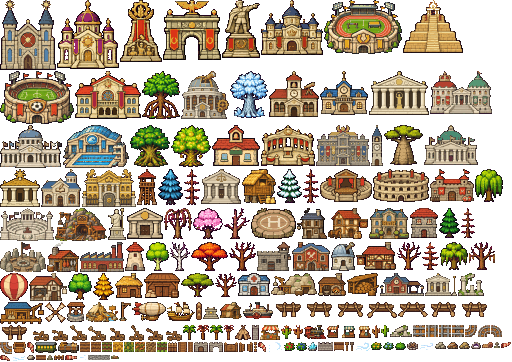
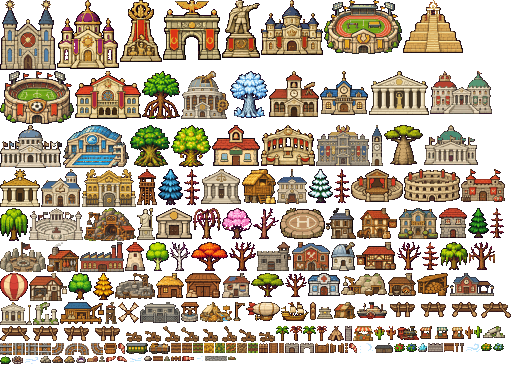
Hojas 14A y 14B: oficina del registro civil junto al ayuntamiento, centro de internamiento, cantera del campo de trabajo, barracones y torre de vigilancia, casa okupada, e iconos de DNI, pasaporte, permiso y grilletes en la ficha

diff --git a/js/arte_mapa.js b/js/arte_mapa.js
@@ -1,2 +1,2 @@
 // Forja de Mundos · Mapa del atlas de arte (generado: no editar a mano). clave: [x, y, ancho, alto, ancla x, llamas?]
-const ART_MAP = {"house:hut":[115,273,28,25,14],"house:piedra":[410,208,28,30,14],"well:pozo":[67,302,18,20,9],"store:almacen":[144,273,36,25,18],"tower:torre":[137,169,20,36,10],"hall:ayuntamiento":[320,71,48,44,24],"market:mercado":[327,325,44,13,22],"bank:banco":[127,208,36,31,18],"hospital:hospital":[238,273,32,23,16],"school:escuela":[212,125,48,41,24],"tavern:taberna":[356,242,40,28,20],"theater:teatro":[320,169,52,33,26],"coliseum:coliseo":[373,169,56,33,28],"barracks:cuartel":[430,169,44,33,22],"tradehall:lonja":[0,302,44,22,22],"quarry:cantera":[271,273,46,23,23],"temple:templo":[0,169,40,38,20],"obelisk:monumento":[108,208,18,32,9],"cathedral:catedral":[0,0,56,70,28],"cathedral:panteon":[369,71,60,44,30],"wonder:republica":[261,125,54,41,27],"wonder:monarquia":[261,0,62,55,31],"wonder:dictadura":[222,0,38,58,19],"wonder:comunismo":[120,0,42,62,21],"wonder:fascismo":[163,0,58,60,29],"wonder:socialismo":[75,71,66,48,33],"wonder:teocracia":[57,0,62,69,31],"altar:altar":[203,302,16,17,8,[5,0,6,6]],"cathedral:zigurat":[403,0,60,53,30,[24,1,12,13]],"forge:herreria":[318,273,28,23,14,[14,17,9,3]],"mill:molino":[125,242,20,29,10],"mill:aspas":[45,302,21,21,10],"oak:forest":[68,273,24,27,12],"oak:forest:bare":[397,242,24,28,12],"pine:pine":[439,208,21,30,10],"pine:pine:bare":[461,208,14,30,7],"pine:snow":[277,169,25,34,12],"pine:snow:bare":[303,169,16,34,8],"acacia:dry":[181,273,33,24,16],"acacia:dry:bare":[215,273,22,24,11],"birch:birch":[146,242,23,29,11],"birch:birch:bare":[170,242,20,29,10],"pine:blue":[158,169,25,36,12],"pine:blue:bare":[184,169,16,36,8],"willow:swamp":[475,169,28,33,14],"willow:swamp:bare":[164,208,28,31,14],"palm:palm":[183,325,13,15,6],"palm:palm:bare":[197,325,12,15,6],"palm:coco":[210,325,13,15,6],"palm:coco:bare":[224,325,10,15,5],"oak:cherry":[193,208,30,31,15],"oak:cherry:bare":[224,208,26,31,13],"pine:autumn":[93,273,21,27,10],"pine:autumn:bare":[422,242,17,28,8],"acacia:sunset":[191,242,37,29,18],"acacia:sunset:bare":[229,242,27,29,13],"willow:moss":[440,242,28,28,14],"willow:moss:bare":[469,242,26,28,13],"cactus:cactus":[381,325,8,12,4],"cactus:cactus:bare":[372,325,8,13,4],"cactus:bloom":[281,325,11,14,5],"cactus:bloom:bare":[293,325,10,14,5],"ancient:elder":[130,125,40,42,20],"ancient:frost":[230,71,38,47,19],"ancient:baobab":[384,125,39,40,19],"ancient:mangrove":[142,71,38,48,19],"ancient:life":[171,125,40,42,20],"bush:red":[284,342,11,9,5],"bush:blueb":[296,342,11,9,5],"bush:goldb":[371,342,11,8,5],"bush:moon":[383,342,11,8,5],"bush:empty":[395,342,11,8,5],"rock:stone":[27,355,8,5,4],"big:stone":[435,342,11,7,5],"ore:iron":[447,342,11,7,5],"ore:gold":[459,342,11,7,5],"gem:amethyst":[471,342,10,7,5],"gem:mana":[308,342,9,9,4],"fire:camp":[407,342,11,8,5],"camp:tienda":[235,325,16,15,8],"camp:estera":[482,342,11,6,5],"boat:0":[274,302,30,16,15],"boat:1":[305,302,30,16,15],"boat:2":[336,302,30,16,15],"boat:3":[367,302,30,16,15],"boat:4":[398,302,30,16,15],"boat:5":[429,302,30,16,15],"boat:6":[460,302,30,16,15],"boat:7":[0,325,30,16,15],"catapult:0":[31,325,18,16,9],"catapult:1":[50,325,18,16,9],"catapult:2":[69,325,18,16,9],"catapult:3":[88,325,18,16,9],"catapult:4":[107,325,18,16,9],"catapult:5":[126,325,18,16,9],"catapult:6":[145,325,18,16,9],"catapult:7":[164,325,18,16,9],"tex:arada":[80,342,10,10,5],"tex:sembrado":[91,342,10,10,5],"tex:brotes":[102,342,10,10,5],"tex:trigo":[113,342,10,10,5],"tex:maiz":[124,342,10,10,5],"tex:mijo":[135,342,10,10,5],"tex:muerta":[146,342,10,10,5],"tex:huerta":[157,342,10,10,5],"tex:empalizada_h":[168,342,9,10,4],"tex:empalizada_v":[196,302,6,18,3],"tex:piedra_h":[318,342,15,9,7],"tex:piedra_v":[252,325,7,15,3],"tex:puente_h":[334,342,10,9,5],"tex:puente_v":[178,342,9,10,4],"tex:puente_h5":[36,355,10,5,5],"tex:puente_v5":[188,342,5,10,2],"gate:piedra":[194,342,14,10,7],"gate:piedra_abierta":[209,342,14,10,7],"gate:madera":[224,342,14,10,7],"gate:madera_abierta":[239,342,14,10,7],"tumba:lapida":[47,355,6,5,3],"tumba:flores":[111,355,8,4,4],"tumba:estela":[494,342,6,6,3],"tex:valla_h":[54,355,10,5,5],"tex:valla_v":[254,342,3,10,1],"antorcha:encendida":[345,342,4,9,2],"antorcha:apagada":[350,342,4,9,2],"balloon:globo":[0,273,28,28,14],"balloon:cesta":[13,342,13,11,6],"aero:pista":[251,208,45,31,22],"aero:palo":[119,302,12,19,2],"sock:0":[65,355,12,5,0],"sock:1":[501,342,10,6,0],"sock:2":[0,355,10,6,0],"sock:3":[258,342,8,10,0],"sock:4":[27,342,7,11,0],"wind:0":[78,355,9,5,4],"wind:1":[11,355,15,6,7],"wind:2":[419,342,15,8,7],"wind:3":[355,342,15,9,7],"wind:4":[267,342,16,10,8],"court:tribunal":[201,169,40,35,20],"jail:carcel":[257,242,34,29,17],"press:imprenta":[29,273,38,28,19],"union:sindicato":[292,242,38,29,19],"parliament:parlamento":[424,125,54,40,27],"academy:academia":[41,169,40,38,20],"wonder:democracia":[0,208,54,33,27],"wonder:partitocracia":[316,125,54,41,27],"wonder:monarquia_parlamentaria":[430,71,62,43,31],"wonder:oligarquia":[82,169,54,38,27],"wonder:tecnocracia":[181,71,48,48,24],"wonder:anarquia":[0,242,46,30,23],"mine:mina":[55,208,52,33,26],"university:universidad":[269,71,50,46,25],"council:consejo":[0,125,62,43,31],"spy:espias":[297,208,30,31,15],"granary:granero":[242,169,34,35,17],"smoke:ahumadero":[47,242,32,30,16],"woodshed:lenera":[347,273,32,23,16],"post:postas":[328,208,40,31,20],"house:mansion":[369,208,40,31,20],"house:chabola":[220,302,22,17,11],"sport:futbol":[0,71,74,53,37],"sport:natacion":[63,125,66,43,33],"sport:atletismo":[324,0,78,54,39],"station:estacion":[380,273,44,23,22],"factory:fabrica":[80,242,44,30,22],"clock:reloj":[371,125,12,41,6],"observatory:observatorio":[331,242,24,29,12],"embassy:embajada":[425,273,32,23,16],"ruin:ruinas_a":[458,273,26,23,13],"ruin:ruinas_b":[390,325,22,12,11],"train:locomotora":[304,325,22,14,11],"train:vagon_p":[35,342,22,11,11],"train:vagon_m":[58,342,21,11,10],"airship:dirigible":[132,302,34,19,17],"ship:galeon":[167,302,28,19,14],"ship:vapor":[243,302,30,17,15],"tex:carretera":[88,355,22,5,11],"rail:h":[413,325,12,12,6],"rail:v":[426,325,12,12,6],"rail:x":[439,325,12,12,6],"rail:t":[452,325,12,12,6],"rail:nw":[465,325,12,12,6],"rail:se":[478,325,12,12,6],"rail:sw":[491,325,12,12,6],"rail:ne":[0,342,12,12,6],"fair:puesto":[260,325,20,15,10],"camp:oro":[86,302,32,20,16]};
+const ART_MAP = {"house:hut":[156,273,28,25,14],"house:piedra":[439,208,28,30,14],"well:pozo":[181,302,18,20,9],"store:almacen":[185,273,36,25,18],"tower:torre":[137,169,20,36,10],"hall:ayuntamiento":[320,71,48,44,24],"market:mercado":[420,326,44,13,22],"bank:banco":[156,208,36,31,18],"hospital:hospital":[308,273,32,23,16],"school:escuela":[212,125,48,41,24],"tavern:taberna":[356,242,40,28,20],"theater:teatro":[351,169,52,33,26],"coliseum:coliseo":[404,169,56,33,28],"barracks:cuartel":[461,169,44,33,22],"tradehall:lonja":[60,302,44,22,22],"quarry:cantera":[341,273,46,23,23],"temple:templo":[0,169,40,38,20],"obelisk:monumento":[137,208,18,32,9],"cathedral:catedral":[0,0,56,70,28],"cathedral:panteon":[369,71,60,44,30],"wonder:republica":[261,125,54,41,27],"wonder:monarquia":[261,0,62,55,31],"wonder:dictadura":[222,0,38,58,19],"wonder:comunismo":[120,0,42,62,21],"wonder:fascismo":[163,0,58,60,29],"wonder:socialismo":[75,71,66,48,33],"wonder:teocracia":[57,0,62,69,31],"altar:altar":[317,302,16,17,8,[5,0,6,6]],"cathedral:zigurat":[403,0,60,53,30,[24,1,12,13]],"forge:herreria":[388,273,28,23,14,[14,17,9,3]],"mill:molino":[125,242,20,29,10],"mill:aspas":[118,302,21,21,10],"oak:forest":[68,273,24,27,12],"oak:forest:bare":[397,242,24,28,12],"pine:pine":[468,208,21,30,10],"pine:pine:bare":[490,208,14,30,7],"pine:snow":[308,169,25,34,12],"pine:snow:bare":[334,169,16,34,8],"acacia:dry":[251,273,33,24,16],"acacia:dry:bare":[285,273,22,24,11],"birch:birch":[146,242,23,29,11],"birch:birch:bare":[170,242,20,29,10],"pine:blue":[158,169,25,36,12],"pine:blue:bare":[184,169,16,36,8],"willow:swamp":[0,208,28,33,14],"willow:swamp:bare":[193,208,28,31,14],"palm:palm":[276,326,13,15,6],"palm:palm:bare":[290,326,12,15,6],"palm:coco":[303,326,13,15,6],"palm:coco:bare":[317,326,10,15,5],"oak:cherry":[222,208,30,31,15],"oak:cherry:bare":[253,208,26,31,13],"pine:autumn":[93,273,21,27,10],"pine:autumn:bare":[422,242,17,28,8],"acacia:sunset":[191,242,37,29,18],"acacia:sunset:bare":[229,242,27,29,13],"willow:moss":[440,242,28,28,14],"willow:moss:bare":[469,242,26,28,13],"cactus:cactus":[474,326,8,12,4],"cactus:cactus:bare":[465,326,8,13,4],"cactus:bloom":[374,326,11,14,5],"cactus:bloom:bare":[386,326,10,14,5],"ancient:elder":[130,125,40,42,20],"ancient:frost":[230,71,38,47,19],"ancient:baobab":[384,125,39,40,19],"ancient:mangrove":[142,71,38,48,19],"ancient:life":[171,125,40,42,20],"bush:red":[394,343,11,9,5],"bush:blueb":[406,343,11,9,5],"bush:goldb":[481,343,11,8,5],"bush:moon":[493,343,11,8,5],"bush:empty":[0,356,11,8,5],"rock:stone":[144,356,8,5,4],"big:stone":[40,356,11,7,5],"ore:iron":[52,356,11,7,5],"ore:gold":[64,356,11,7,5],"gem:amethyst":[76,356,10,7,5],"gem:mana":[418,343,9,9,4],"fire:camp":[12,356,11,8,5],"camp:tienda":[328,326,16,15,8],"camp:estera":[87,356,11,6,5],"boat:0":[388,302,30,16,15],"boat:1":[419,302,30,16,15],"boat:2":[450,302,30,16,15],"boat:3":[481,302,30,16,15],"boat:4":[0,326,30,16,15],"boat:5":[31,326,30,16,15],"boat:6":[62,326,30,16,15],"boat:7":[93,326,30,16,15],"catapult:0":[124,326,18,16,9],"catapult:1":[143,326,18,16,9],"catapult:2":[162,326,18,16,9],"catapult:3":[181,326,18,16,9],"catapult:4":[200,326,18,16,9],"catapult:5":[219,326,18,16,9],"catapult:6":[238,326,18,16,9],"catapult:7":[257,326,18,16,9],"tex:arada":[171,343,10,10,5],"tex:sembrado":[182,343,10,10,5],"tex:brotes":[193,343,10,10,5],"tex:trigo":[204,343,10,10,5],"tex:maiz":[215,343,10,10,5],"tex:mijo":[226,343,10,10,5],"tex:muerta":[237,343,10,10,5],"tex:huerta":[248,343,10,10,5],"tex:empalizada_h":[259,343,9,10,4],"tex:empalizada_v":[310,302,6,18,3],"tex:piedra_h":[428,343,15,9,7],"tex:piedra_v":[345,326,7,15,3],"tex:puente_h":[444,343,10,9,5],"tex:puente_v":[269,343,9,10,4],"tex:puente_h5":[153,356,10,5,5],"tex:puente_v5":[279,343,5,10,2],"gate:piedra":[285,343,14,10,7],"gate:piedra_abierta":[300,343,14,10,7],"gate:madera":[315,343,14,10,7],"gate:madera_abierta":[330,343,14,10,7],"tumba:lapida":[164,356,6,5,3],"tumba:flores":[228,356,8,4,4],"tumba:estela":[99,356,6,6,3],"tex:valla_h":[171,356,10,5,5],"tex:valla_v":[345,343,3,10,1],"antorcha:encendida":[455,343,4,9,2],"antorcha:apagada":[460,343,4,9,2],"balloon:globo":[0,273,28,28,14],"balloon:cesta":[104,343,13,11,6],"aero:pista":[280,208,45,31,22],"aero:palo":[233,302,12,19,2],"sock:0":[182,356,12,5,0],"sock:1":[106,356,10,6,0],"sock:2":[117,356,10,6,0],"sock:3":[349,343,8,10,0],"sock:4":[118,343,7,11,0],"wind:0":[195,356,9,5,4],"wind:1":[128,356,15,6,7],"wind:2":[24,356,15,8,7],"wind:3":[465,343,15,9,7],"wind:4":[358,343,16,10,8],"court:tribunal":[201,169,40,35,20],"jail:carcel":[257,242,34,29,17],"press:imprenta":[29,273,38,28,19],"union:sindicato":[292,242,38,29,19],"parliament:parlamento":[424,125,54,40,27],"academy:academia":[41,169,40,38,20],"wonder:democracia":[29,208,54,33,27],"wonder:partitocracia":[316,125,54,41,27],"wonder:monarquia_parlamentaria":[430,71,62,43,31],"wonder:oligarquia":[82,169,54,38,27],"wonder:tecnocracia":[181,71,48,48,24],"wonder:anarquia":[0,242,46,30,23],"mine:mina":[84,208,52,33,26],"university:universidad":[269,71,50,46,25],"council:consejo":[0,125,62,43,31],"spy:espias":[326,208,30,31,15],"granary:granero":[242,169,34,35,17],"smoke:ahumadero":[47,242,32,30,16],"woodshed:lenera":[417,273,32,23,16],"post:postas":[357,208,40,31,20],"house:mansion":[398,208,40,31,20],"house:chabola":[334,302,22,17,11],"sport:futbol":[0,71,74,53,37],"sport:natacion":[63,125,66,43,33],"sport:atletismo":[324,0,78,54,39],"station:estacion":[450,273,44,23,22],"factory:fabrica":[80,242,44,30,22],"clock:reloj":[371,125,12,41,6],"observatory:observatorio":[331,242,24,29,12],"embassy:embajada":[0,302,32,23,16],"ruin:ruinas_a":[33,302,26,23,13],"ruin:ruinas_b":[483,326,22,12,11],"train:locomotora":[397,326,22,14,11],"train:vagon_p":[126,343,22,11,11],"train:vagon_m":[149,343,21,11,10],"airship:dirigible":[246,302,34,19,17],"ship:galeon":[281,302,28,19,14],"ship:vapor":[357,302,30,17,15],"tex:carretera":[205,356,22,5,11],"rail:h":[0,343,12,12,6],"rail:v":[13,343,12,12,6],"rail:x":[26,343,12,12,6],"rail:t":[39,343,12,12,6],"rail:nw":[52,343,12,12,6],"rail:se":[65,343,12,12,6],"rail:sw":[78,343,12,12,6],"rail:ne":[91,343,12,12,6],"fair:puesto":[353,326,20,15,10],"camp:oro":[200,302,32,20,16],"civic:registro":[277,169,30,35,15],"camp:centro":[140,302,40,21,20],"camp:cantera":[115,273,40,26,20],"camp:barracon":[375,343,18,10,9],"camp:torre":[105,302,12,22,6],"house:okupada":[222,273,28,25,14]};

diff --git a/js/papeles.js b/js/papeles.js
@@ -48,6 +48,12 @@ function papersTick(g, dt, people){
   }
   if (docs) {
     if (!n.dniMsg) { n.dniMsg = true; notify(`${n.name} abre el registro civil: cada habitante tendrá su DNI y quien quiera viajar, su pasaporte`, at); }
+    if (!g.registry && g.hall != null && world.objs[g.hall] && !(g.regFail > yearT - DAY_LEN)) { // la oficina del registro, junto al ayuntamiento
+      const hx = g.hall % W, hy = (g.hall / W) | 0;
+      const p = ringFind(hx + 8, hy + 1, 12, (x, y) => areaClear(x - 3, y - 7, x + 3, y) && [-3, -2, -1, 0, 1, 2, 3].every(dx => tileFree(x + dx, y) && !pathMap.has(y * W + x + dx) && !farmMap.has(y * W + x + dx)) && !plotIn(x - 4, y - 7, x + 4, y + 1) && !villages.some(q => underBuilding(q, x, y)));
+      if (p) { g.registry = { x:p[0], y:p[1], x0:p[0] - 3, y0:p[1] - 6, w:7, h:7 }; composeRegion(p[0] - 8, p[1] - 12, p[0] + 8, p[1] + 4); notify(`En ${g.name} abre la oficina del registro civil: allí hacen el DNI y el pasaporte`, { x:p[0] * T, y:p[1] * T }); }
+      else g.regFail = yearT;
+    }
     let k = 0; const ec = ecOf(g);
     for (const v of people) {
       if (k >= 6) break;
@@ -77,7 +83,7 @@ function irregTick(g, people, n, at){
   if (go.length) notify(`La policía de ${g.name} detiene a ${go.length} persona${go.length > 1 ? 's' : ''} sin papeles y la${go.length > 1 ? 's' : ''} lleva al centro de internamiento`, at);
 }
 // ---- Campos: centro de internamiento de migrantes, campo de trabajo y campo de internamiento ----
-const CAMP = { deport:{ name:'un centro de internamiento de migrantes', w:7, h:4, why:'los sin papeles esperarán allí a que los devuelvan a su país' },
+const CAMP = { deport:{ name:'un centro de internamiento de migrantes', w:8, h:5, why:'los sin papeles esperarán allí a que los devuelvan a su país' },
   trabajo:{ name:'un campo de trabajos forzados', w:8, h:5, why:'los presos picarán piedra para el estado' },
   intern:{ name:'un campo de internamiento', w:8, h:5, why:'allí encierran a opositores y perseguidos' } };
 const campOn = (g, k) => k === 'deport' ? hasLaw(g, 'deportaciones') && hasLaw(g, 'control_fronteras') && docsOn(g) : k === 'trabajo' ? hasLaw(g, 'trabajos_forzados') && hasCourt(g) : hasLaw(g, 'campos_internamiento');
@@ -219,11 +225,11 @@ function slaveTick(g, people, n, at){
 }; }
 function papersKv(v, g){
   const kv = b => `<div class="kv"><span>Papeles</span><b>${b}</b></div>`;
-  if (v.slave) { const o = villageById(v.slave.vid); return kv(`<span style="color:#e08070">${sexW(v, 'esclavo', 'esclava')}${o ? ' en ' + esc(o.name) : ''}</span>`); }
+  if (v.slave) { const o = villageById(v.slave.vid); return kv(`${DOC_IMG('sello')}<span style="color:#e08070">${sexW(v, 'esclavo', 'esclava')}${o ? ' en ' + esc(o.name) : ''}</span>`); }
   const bits = [];
-  if (v.dni) { const o = villageById(v.dni.nat); bits.push(`DNI ${v.dni.n}${o ? ' (' + esc(o.name) + ')' : ''}`); }
-  if (v.pass != null) bits.push('pasaporte');
-  if (v.irreg) bits.push('<span style="color:#e0a060">sin papeles</span>'); else if (v.permit && v.dni && v.dni.nat !== v.permit.nat) bits.push('permiso de residencia');
+  if (v.dni) { const o = villageById(v.dni.nat); bits.push(`${DOC_IMG('dni')}DNI ${v.dni.n}${o ? ' (' + esc(o.name) + ')' : ''}`); }
+  if (v.pass != null) bits.push(`${DOC_IMG('pasaporte')}pasaporte`);
+  if (v.irreg) bits.push('<span style="color:#e0a060">sin papeles</span>'); else if (v.permit && v.dni && v.dni.nat !== v.permit.nat) bits.push(`${DOC_IMG('permiso')}permiso de residencia`);
   if (inCamp(v)) bits.push(`<span style="color:#e08070">${v.camp.k === 'deport' ? 'en el centro de internamiento' : v.camp.k === 'intern' ? 'en un campo de internamiento' : 'en el campo de trabajo'}</span>`);
   return bits.length ? kv(bits.join(' · ')) : g && knowsSci(g, 'registro_civil') ? kv('aún sin DNI') : '';
 }
@@ -232,15 +238,26 @@ function papersKv(v, g){
   base(v, x, y, s, now);
   if (v.slave || inCamp(v) || (v.jail && v.jail.until > yearT)) { vctx.fillStyle = '#3a3a40'; vctx.fillRect(x - 2, y, 5, 1); vctx.fillStyle = '#9a9aa0'; vctx.fillRect(x - 2, y, 1, 1); vctx.fillRect(x + 2, y, 1, 1); }
 }; }
-// ---- Dibujo de los campos: cerca con alambre, barracones, torre de vigilancia y, en el de trabajo, la cantera ----
+// ---- Dibujo de los campos: con los dibujos de la hoja 14A si están (centro, cantera, barracones y torre); si no, con píxeles ----
 function drawPrisonCamps(now){
-  const [vx0, vy0, vx1, vy1] = visibleRect();
+  const [vx0, vy0, vx1, vy1] = visibleRect(), art = !!artFrame('camp:torre');
   for (const g of villages) {
+    if (g.registry && popOf(g)) { const x = g.registry.x * T + 2, y = g.registry.y * T + 3; if (x > vx0 - 30 && x < vx1 + 30 && y > vy0 - 10 && y < vy1 + 40 && artAt('civic:registro', x, y)) { const f = nationOf(g).flag; if (f) drawFlag(f, x + 1, y - ART_MAP['civic:registro'][3] + 1, 6, 4, 1, now); } }
     if (!g.camps) continue; const n = nationOf(g);
     for (const [k, C] of Object.entries(g.camps)) {
       const px = C.x0 * T, py = C.y0 * T, w = C.w * T, h = C.h * T;
-      if (px > vx1 + 10 || py > vy1 + 10 || px + w < vx0 - 10 || py + h < vy0 - 20) continue;
+      if (px > vx1 + 10 || py > vy1 + 30 || px + w < vx0 - 10 || py + h < vy0 - 20) continue;
       vctx.fillStyle = k === 'trabajo' ? 'rgba(130,118,100,.75)' : 'rgba(118,104,82,.7)'; vctx.fillRect(px, py, w, h); // tierra pisada
+      if (art) {
+        if (k === 'deport') artAt('camp:centro', px + (w >> 1), py + 9);
+        else if (k === 'trabajo') artAt('camp:cantera', px + (w >> 1), py + h + 1);
+        else { artAt('camp:barracon', px + 10, py + 9); artAt('camp:barracon', px + w - 15, py + 9); }
+        if (k !== 'deport') { artAt('camp:torre', px + w - 2, py + 6); if (isNight()) { const a = now / 900 + C.x0, tx = px + w - 2, ty = py - 12; vctx.fillStyle = 'rgba(255,240,180,.12)'; vctx.beginPath(); vctx.moveTo(tx, ty); vctx.lineTo(tx + Math.cos(a) * 26 - 5, ty + 26); vctx.lineTo(tx + Math.cos(a) * 26 + 5, ty + 26); vctx.fill(); } }
+        const fx = px + 2, fy = py - 1; vctx.fillStyle = '#4a3a28'; vctx.fillRect(fx, fy - 12, 1, 13); // mástil con la bandera
+        if (n.flag) drawFlag(n.flag, fx + 1, fy - 12, 6, 4, 1, now); else { vctx.fillStyle = `rgb(${villageColor(n).join(',')})`; vctx.fillRect(fx + 1, fy - 12, 6, 4); }
+        if (k === 'trabajo') continue; // la cantera ya trae su cerca de madera
+        campFence(px, py, w, h, k === 'deport' ? 9 : 0); continue;
+      }
       if (k === 'trabajo') { // la cantera: bloques y un montón de piedra
         vctx.fillStyle = '#22201e'; vctx.fillRect(px + w - 13, py + h - 9, 10, 6); vctx.fillStyle = '#9a968e'; vctx.fillRect(px + w - 12, py + h - 8, 8, 4); vctx.fillStyle = '#c8c4b8'; vctx.fillRect(px + w - 12, py + h - 8, 3, 1); vctx.fillRect(px + w - 8, py + h - 7, 2, 1);
         vctx.fillStyle = '#7a766e'; for (let j = 0; j < 4; j++) vctx.fillRect(px + 4 + j * 4, py + h - 5, 3, 2);
@@ -250,25 +267,29 @@ function drawPrisonCamps(now){
         const bx = px + 3 + j * 17, by = py + 7;
         vctx.fillStyle = '#22201e'; vctx.fillRect(bx - 1, by - 7, 15, 8); vctx.fillStyle = k === 'deport' ? '#8a8e94' : '#6a5440'; vctx.fillRect(bx, by - 4, 13, 4);
         vctx.fillStyle = k === 'deport' ? '#5a6068' : '#4a3a2c'; vctx.fillRect(bx, by - 6, 13, 2); vctx.fillStyle = '#2a2420'; vctx.fillRect(bx + 6, by - 3, 2, 3);
-        vctx.fillStyle = '#d8c070'; if (isNight()) { vctx.fillRect(bx + 2, by - 3, 1, 1); vctx.fillRect(bx + 10, by - 3, 1, 1); }
       }
-      // torre de vigilancia en una esquina
-      const tx = px + w - 3, ty = py + 2;
+      const tx = px + w - 3, ty = py + 2; // torre de vigilancia
       vctx.fillStyle = '#4a3a28'; vctx.fillRect(tx - 3, ty - 9, 1, 10); vctx.fillRect(tx + 1, ty - 9, 1, 10);
-      vctx.fillStyle = '#22201e'; vctx.fillRect(tx - 4, ty - 12, 7, 4); vctx.fillStyle = '#7a5a38'; vctx.fillRect(tx - 3, ty - 11, 5, 2);
-      vctx.fillStyle = '#3a3028'; vctx.fillRect(tx - 4, ty - 14, 7, 2);
-      if (isNight()) { const a = now / 900 + C.x0; vctx.fillStyle = 'rgba(255,240,180,.12)'; vctx.beginPath(); vctx.moveTo(tx, ty - 10); vctx.lineTo(tx + Math.cos(a) * 26 - 5, ty - 10 + 22); vctx.lineTo(tx + Math.cos(a) * 26 + 5, ty - 10 + 22); vctx.fill(); } // el foco
+      vctx.fillStyle = '#22201e'; vctx.fillRect(tx - 4, ty - 12, 7, 4); vctx.fillStyle = '#7a5a38'; vctx.fillRect(tx - 3, ty - 11, 5, 2); vctx.fillStyle = '#3a3028'; vctx.fillRect(tx - 4, ty - 14, 7, 2);
       if (n.flag) drawFlag(n.flag, tx, ty - 20, 6, 4, 1, now); else { vctx.fillStyle = `rgb(${villageColor(n).join(',')})`; vctx.fillRect(tx, ty - 20, 6, 4); }
       vctx.fillStyle = '#4a3a28'; vctx.fillRect(tx - 1, ty - 20, 1, 6);
-      // cerca: postes y alambre (con espino), con la puerta abajo en medio
-      const gate0 = px + (w >> 1) - 3, gate1 = gate0 + 6;
-      vctx.fillStyle = '#9a9aa2';
-      vctx.fillRect(px, py, w, 1); vctx.fillRect(px, py + 2, w, 1); vctx.fillRect(px, py, 1, h); vctx.fillRect(px + w - 1, py, 1, h);
-      vctx.fillRect(px, py + h - 1, gate0 - px, 1); vctx.fillRect(gate1, py + h - 1, px + w - gate1, 1); vctx.fillRect(px, py + h - 3, gate0 - px, 1); vctx.fillRect(gate1, py + h - 3, px + w - gate1, 1);
-      vctx.fillStyle = '#4a3a28';
-      for (let x = px; x <= px + w - 1; x += 4) { vctx.fillRect(x, py - 2, 1, 5); if (x < gate0 || x > gate1) vctx.fillRect(x, py + h - 4, 1, 5); }
-      for (let y = py; y <= py + h; y += 4) { vctx.fillRect(px, y - 2, 1, 4); vctx.fillRect(px + w - 1, y - 2, 1, 4); }
-      vctx.fillStyle = '#5a4a38'; vctx.fillRect(gate0, py + h - 5, 1, 6); vctx.fillRect(gate1, py + h - 5, 1, 6); vctx.fillRect(gate0, py + h - 6, 7, 1); // la puerta
+      campFence(px, py, w, h, 0);
     }
   }
 }
+// Cerca de postes y alambre de espino, con la puerta abajo en medio (top: desde dónde empieza, si arriba hay un edificio)
+function campFence(px, py, w, h, top){
+  const gate0 = px + (w >> 1) - 3, gate1 = gate0 + 6, y0 = py + top;
+  vctx.fillStyle = '#9a9aa2';
+  if (!top) { vctx.fillRect(px, py, w, 1); vctx.fillRect(px, py + 2, w, 1); }
+  vctx.fillRect(px, y0, 1, h - top); vctx.fillRect(px + w - 1, y0, 1, h - top);
+  vctx.fillRect(px, py + h - 1, gate0 - px, 1); vctx.fillRect(gate1, py + h - 1, px + w - gate1, 1); vctx.fillRect(px, py + h - 3, gate0 - px, 1); vctx.fillRect(gate1, py + h - 3, px + w - gate1, 1);
+  vctx.fillStyle = '#4a3a28';
+  for (let x = px; x <= px + w - 1; x += 4) { if (!top) vctx.fillRect(x, py - 2, 1, 5); if (x < gate0 || x > gate1) vctx.fillRect(x, py + h - 4, 1, 5); }
+  for (let y = y0; y <= py + h; y += 4) { vctx.fillRect(px, y - 2, 1, 4); vctx.fillRect(px + w - 1, y - 2, 1, 4); }
+  vctx.fillStyle = '#5a4a38'; vctx.fillRect(gate0, py + h - 5, 1, 6); vctx.fillRect(gate1, py + h - 5, 1, 6); vctx.fillRect(gate0, py + h - 6, 7, 1); // la puerta
+}
+// Casas ocupadas: con el dibujo de la casa okupada (tablones en las ventanas, colchón en la puerta)
+{ const base = artSprite; artSprite = function(o){ if (o && o.okupa && o.key && o.key.startsWith('house') && ART.ready && ART_MAP['house:okupada']) return artFrame('house:okupada'); return base(o); }; }
+// Iconos de los papeles para la ficha (hoja 14B: arte/papeles)
+const DOC_IMG = k => `<img class="doc-ic" src="arte/papeles/${k}.png" alt="" onerror="this.remove()">`;

diff --git a/index.html b/index.html
@@ -6,7 +6,7 @@
 <meta name="claude:viewport-fit-sides" content="cover">
 <link rel="preconnect" href="https://fonts.googleapis.com">
 <link rel="stylesheet" href="https://fonts.googleapis.com/css2?family=Pixelify+Sans:wght@400;600&family=Nunito+Sans:wght@400;600;700&display=swap">
-<link rel="stylesheet" href="css/estilo.css?v=202611232224">
+<link rel="stylesheet" href="css/estilo.css?v=202611232233">
 
 <div class="app">
   <section class="stage" id="stage">
@@ -180,70 +180,70 @@
 </div>
 
 <!-- El juego, en el orden en que se carga -->
-<script src="js/nucleo.js?v=202611232224"></script>
-<script src="js/mundo.js?v=202611232224"></script>
-<script src="js/vista.js?v=202611232224"></script>
-<script src="js/clima.js?v=202611232224"></script>
-<script src="js/fauna.js?v=202611232224"></script>
-<script src="js/desastres.js?v=202611232224"></script>
-<script src="js/mapas.js?v=202611232224"></script>
-<script src="js/humanos.js?v=202611232224"></script>
-<script src="js/partidas.js?v=202611232224"></script>
-<script src="js/vida.js?v=202611232224"></script>
-<script src="js/sociedad.js?v=202611232224"></script>
-<script src="js/impuestos.js?v=202611232224"></script>
-<script src="js/presupuestos.js?v=202611232224"></script>
-<script src="js/bolsa.js?v=202611232224"></script>
-<script src="js/vivienda.js?v=202611232224"></script>
-<script src="js/cartografia.js?v=202611232224"></script>
-<script src="js/convivencia.js?v=202611232224"></script>
-<script src="js/credos.js?v=202611232224"></script>
-<script src="js/tratados.js?v=202611232224"></script>
-<script src="js/globos.js?v=202611232224"></script>
-<script src="js/idiomas.js?v=202611232224"></script>
-<script src="js/regimenes.js?v=202611232224"></script>
-<script src="js/instituciones.js?v=202611232224"></script>
-<script src="js/monedas.js?v=202611232224"></script>
-<script src="js/minas.js?v=202611232224"></script>
-<script src="js/justicia.js?v=202611232224"></script>
-<script src="js/sindicatos.js?v=202611232224"></script>
-<script src="js/prensa.js?v=202611232224"></script>
-<script src="js/ciencia.js?v=202611232224"></script>
-<script src="js/consejo.js?v=202611232224"></script>
-<script src="js/espionaje.js?v=202611232224"></script>
-<script src="js/comercio.js?v=202611232224"></script>
-<script src="js/piratas.js?v=202611232224"></script>
-<script src="js/colonias.js?v=202611232224"></script>
-<script src="js/cultura.js?v=202611232224"></script>
-<script src="js/anexiones.js?v=202611232224"></script>
-<script src="js/lluvia.js?v=202611232224"></script>
-<script src="js/estaciones.js?v=202611232224"></script>
-<script src="js/bandidos.js?v=202611232224"></script>
-<script src="js/riqueza.js?v=202611232224"></script>
-<script src="js/noticias.js?v=202611232224"></script>
-<script src="js/defensa.js?v=202611232224"></script>
-<script src="js/trabajo.js?v=202611232224"></script>
-<script src="js/arte_mapa.js?v=202611232224"></script>
-<script src="js/arte.js?v=202611232224"></script>
-<script src="js/vegetacion.js?v=202611232224"></script>
-<script src="js/aldeanos.js?v=202611232224"></script>
-<script src="js/sonido.js?v=202611232224"></script>
-<script src="js/interfaz.js?v=202611232224"></script>
-<script src="js/civilizacion.js?v=202611232224"></script>
-<script src="js/industria.js?v=202611232224"></script>
-<script src="js/ambiente.js?v=202611232224"></script>
-<script src="js/fama.js?v=202611232224"></script>
-<script src="js/guerra.js?v=202611232224"></script>
-<script src="js/rutas.js?v=202611232224"></script>
-<script src="js/rescate.js?v=202611232224"></script>
-<script src="js/deportes.js?v=202611232224"></script>
-<script src="js/leyes.js?v=202611232224"></script>
-<script src="js/volcanes.js?v=202611232224"></script>
-<script src="js/edificios.js?v=202611232224"></script>
-<script src="js/calendario.js?v=202611232224"></script>
-<script src="js/titulares.js?v=202611232224"></script>
-<script src="js/libro.js?v=202611232224"></script>
-<script src="js/papeles.js?v=202611232224"></script>
-<script src="js/okupas.js?v=202611232224"></script>
-<script src="js/potencias.js?v=202611232224"></script>
-<script src="js/ui.js?v=202611232224"></script>
+<script src="js/nucleo.js?v=202611232233"></script>
+<script src="js/mundo.js?v=202611232233"></script>
+<script src="js/vista.js?v=202611232233"></script>
+<script src="js/clima.js?v=202611232233"></script>
+<script src="js/fauna.js?v=202611232233"></script>
+<script src="js/desastres.js?v=202611232233"></script>
+<script src="js/mapas.js?v=202611232233"></script>
+<script src="js/humanos.js?v=202611232233"></script>
+<script src="js/partidas.js?v=202611232233"></script>
+<script src="js/vida.js?v=202611232233"></script>
+<script src="js/sociedad.js?v=202611232233"></script>
+<script src="js/impuestos.js?v=202611232233"></script>
+<script src="js/presupuestos.js?v=202611232233"></script>
+<script src="js/bolsa.js?v=202611232233"></script>
+<script src="js/vivienda.js?v=202611232233"></script>
+<script src="js/cartografia.js?v=202611232233"></script>
+<script src="js/convivencia.js?v=202611232233"></script>
+<script src="js/credos.js?v=202611232233"></script>
+<script src="js/tratados.js?v=202611232233"></script>
+<script src="js/globos.js?v=202611232233"></script>
+<script src="js/idiomas.js?v=202611232233"></script>
+<script src="js/regimenes.js?v=202611232233"></script>
+<script src="js/instituciones.js?v=202611232233"></script>
+<script src="js/monedas.js?v=202611232233"></script>
+<script src="js/minas.js?v=202611232233"></script>
+<script src="js/justicia.js?v=202611232233"></script>
+<script src="js/sindicatos.js?v=202611232233"></script>
+<script src="js/prensa.js?v=202611232233"></script>
+<script src="js/ciencia.js?v=202611232233"></script>
+<script src="js/consejo.js?v=202611232233"></script>
+<script src="js/espionaje.js?v=202611232233"></script>
+<script src="js/comercio.js?v=202611232233"></script>
+<script src="js/piratas.js?v=202611232233"></script>
+<script src="js/colonias.js?v=202611232233"></script>
+<script src="js/cultura.js?v=202611232233"></script>
+<script src="js/anexiones.js?v=202611232233"></script>
+<script src="js/lluvia.js?v=202611232233"></script>
+<script src="js/estaciones.js?v=202611232233"></script>
+<script src="js/bandidos.js?v=202611232233"></script>
+<script src="js/riqueza.js?v=202611232233"></script>
+<script src="js/noticias.js?v=202611232233"></script>
+<script src="js/defensa.js?v=202611232233"></script>
+<script src="js/trabajo.js?v=202611232233"></script>
+<script src="js/arte_mapa.js?v=202611232233"></script>
+<script src="js/arte.js?v=202611232233"></script>
+<script src="js/vegetacion.js?v=202611232233"></script>
+<script src="js/aldeanos.js?v=202611232233"></script>
+<script src="js/sonido.js?v=202611232233"></script>
+<script src="js/interfaz.js?v=202611232233"></script>
+<script src="js/civilizacion.js?v=202611232233"></script>
+<script src="js/industria.js?v=202611232233"></script>
+<script src="js/ambiente.js?v=202611232233"></script>
+<script src="js/fama.js?v=202611232233"></script>
+<script src="js/guerra.js?v=202611232233"></script>
+<script src="js/rutas.js?v=202611232233"></script>
+<script src="js/rescate.js?v=202611232233"></script>
+<script src="js/deportes.js?v=202611232233"></script>
+<script src="js/leyes.js?v=202611232233"></script>
+<script src="js/volcanes.js?v=202611232233"></script>
+<script src="js/edificios.js?v=202611232233"></script>
+<script src="js/calendario.js?v=202611232233"></script>
+<script src="js/titulares.js?v=202611232233"></script>
+<script src="js/libro.js?v=202611232233"></script>
+<script src="js/papeles.js?v=202611232233"></script>
+<script src="js/okupas.js?v=202611232233"></script>
+<script src="js/potencias.js?v=202611232233"></script>
+<script src="js/ui.js?v=202611232233"></script>

diff --git a/js/okupas.js b/js/okupas.js
@@ -31,7 +31,7 @@ function okupaTick(g, dt, people){
   }
   // Okupas que ya no viven allí
   for (const u of people) if (u.okupa != null && u.home !== u.okupa) u.okupa = null;
-  for (const h of hs) { const d = D[h]; if (d && d.okupa && !residentsOf(h).some(u => u.okupa === h)) delete d.okupa; }
+  for (const h of hs) { const d = D[h]; if (d && d.okupa && !residentsOf(h).some(u => u.okupa === h)) delete d.okupa; okMark(h, !!(d && d.okupa)); }
   okupaMoveIn(g, people, hs, D, byPid, at);
   okupaEvict(g, people, hs, D, at);
   // Una vez al día: contratos que acaban y caseros que no cumplen
@@ -58,6 +58,8 @@ function okupaTick(g, dt, people){
   if (gone) notify(`En ${g.name} ${gone} inquilino${gone > 1 ? 's' : ''} se queda${gone > 1 ? 'n' : ''} en la calle: al acabar el contrato, el alquiler ha subido demasiado`, at);
 }
 // La gente sin casa se mete en casas vacías
+// La casa se dibuja como okupada (hoja 14A) mientras lo está
+function okMark(h, on){ const o = world.objs[h]; if (!o || !!o.okupa === on) return; o.okupa = on; const x = h % W, y = (h / W) | 0; composeRegion(x - 8, y - 12, x + 8, y + 12); }
 function okupaMoveIn(g, people, hs, D, byPid, at){
   const homeless = people.filter(u => adultV(u) && !u.away && !u.boat && !u.slave && !inCamp(u) && (u.home == null || !hs.includes(u.home)) && !(u.task && BUSY_POL.includes(u.task.k)));
   if (!homeless.length || Math.random() > .5) return;
@@ -65,7 +67,7 @@ function okupaMoveIn(g, people, hs, D, byPid, at){
   if (!empty.length) return;
   const h = empty[Math.floor(Math.random() * empty.length)], go = homeless.slice(0, Math.min(houseRoom(h), 1 + Math.floor(Math.random() * 3)));
   for (const u of go) { u.home = h; u.okupa = h; floats.push({ x:u.x, y:u.y - 12, txt:'okupa', col:'#e0c080', life:0 }); }
-  D[h].okupa = { t:yearT };
+  D[h].okupa = { t:yearT }; okMark(h, true);
   const o = D[h].o > 0 && byPid.get(D[h].o), pol = okPolicy(g);
   notify(`${go.length === 1 ? go[0].name : `${go[0].name} y ${go.length - 1} más`} ocupa${go.length > 1 ? 'n' : ''} una casa vacía ${o ? `de ${o.name} ` : 'en venta '}en ${g.name}${pol === 'proteger' ? ': la ley los protege' : pol === 'desalojo' ? ': el gobierno ya habla de desalojarlos' : ''}`, { x:(h % W) * T, y:((h / W) | 0) * T });
 }
@@ -84,7 +86,7 @@ function okupaEvict(g, people, hs, D, at){
         for (const u of sold) { u.task = null; u.actT = 0; }
         const fight = sold.length && ok.length >= 2 && Math.random() < .35;
         if (fight) { for (const u of ok) u.hp = Math.max(.2, (u.hp ?? 1) - .25); g.anger = Math.min(100, (g.anger || 0) + 5); }
-        g.anger = Math.min(100, (g.anger || 0) + 1.5); delete d.okupa;
+        g.anger = Math.min(100, (g.anger || 0) + 1.5); delete d.okupa; okMark(h, false);
         notify(sold.length ? `Los soldados desalojan a ${ok.length} okupa${ok.length > 1 ? 's' : ''} en ${g.name}${fight ? ': se resisten y hay heridos' : ''}` : `En ${g.name} el dueño echa por su cuenta a los okupas de su casa`, { x:hx, y:hy });
       }
       continue;

diff --git a/js/humanos.js b/js/humanos.js
@@ -1113,7 +1113,7 @@ function plotSlot(g, key){
 }
 // ¿Pisa la parcela de una arboleda o de un bayal (de cualquier pueblo)?
 const holyNear = (x0, y0, x1, y1) => villages.some(o => o.holy && !(x1 < o.holy.x0 - 1 || x0 > o.holy.x1 + 1 || y1 < o.holy.y0 - 1 || y0 > o.holy.y1 + 1) || o.marketRect && !(x1 < o.marketRect.x0 - 1 || x0 > o.marketRect.x1 + 1 || y1 < o.marketRect.y0 - 1 || y0 > o.marketRect.y1 + 1));
-const plotIn = (x0, y0, x1, y1) => villages.some(o => [o.grove, o.berryPlot, o.cemetery, o.track, o.aero, o.pitch, o.pool, o.sportPlan, ...Object.values(o.camps || {})].some(q => q && !(x1 < q.x0 || x0 > q.x0 + q.w - 1 || y1 < q.y0 || y0 > q.y0 + q.h - 1)));
+const plotIn = (x0, y0, x1, y1) => villages.some(o => [o.grove, o.berryPlot, o.cemetery, o.track, o.aero, o.pitch, o.pool, o.sportPlan, o.registry, ...Object.values(o.camps || {})].some(q => q && !(x1 < q.x0 || x0 > q.x0 + q.w - 1 || y1 < q.y0 || y0 > q.y0 + q.h - 1)));
 // ---- Asedio: catapultas que acompañan al ejército y derriban murallas y edificios ----
 let sieges = [], stones = [];
 const hasBarracks = g => g && g.barracks != null && !!world.objs[g.barracks];

diff --git a/js/arte.js b/js/arte.js
@@ -9,7 +9,7 @@ const ART = { img:null, ready:false, cache:new Map() };
   if (typeof ART_MAP === 'undefined') return;
   const im = new Image();
   im.onload = () => { ART.img = im; ART.ready = true; ART.cache.clear(); if (typeof world !== 'undefined' && world && typeof composeRegion === 'function') composeRegion(0, 0, W - 1, H - 1); };
-  im.src = 'arte/atlas.png?v=202611232224';
+  im.src = 'arte/atlas.png?v=202611232233';
 })();
 const ART_DECID = new Set(['oak:forest', 'birch:birch', 'willow:swamp', 'willow:moss', 'acacia:dry', 'acacia:sunset', 'oak:cherry', 'pine:autumn']);
 const ART_EVER = new Set(['pine:pine', 'pine:snow', 'pine:blue', 'ancient:elder', 'ancient:mangrove', 'ancient:life', 'ancient:baobab']);

diff --git a/css/estilo.css b/css/estilo.css
@@ -336,3 +336,5 @@ canvas.ic{width:28px;height:28px;flex:none;image-rendering:pixelated;background:
 .vcard .tabs{flex-wrap:wrap;overflow:visible;row-gap:0}
 .vcard .tabs button{flex:1 1 22%;padding:7px 4px 6px}
 .vcard .cbody{min-height:0;overflow-x:hidden}
+/* Iconos de los papeles en la ficha (hoja 14B) */
+.doc-ic{height:16px;width:auto;image-rendering:pixelated;vertical-align:-3px;margin:0 4px 0 6px}

diff --git a/herramientas/atlas.py b/herramientas/atlas.py
@@ -234,6 +234,17 @@ if os.path.exists(os.path.join(SRC, '13C.png')):
         add(key, tex('13C.png', box, 12, 12, False, 20)) # (12 px: se dibujan en una casilla de 5, con más detalle)
     add('fair:puesto', shrink(box_parts('13C.png', (200, 620, 620, 940)), 20, 40)); add('camp:oro', shrink(box_parts('13C.png', (860, 620, 1380, 940)), 32, 48))
 
+# ---- Papeles y campos (hojas 14A y 14B) ----
+if os.path.exists(os.path.join(SRC, '14A.png')):
+    for key, box, w in [('civic:registro', (100, 130, 420, 500), 30), ('camp:centro', (520, 240, 990, 500), 40), ('camp:cantera', (1030, 190, 1510, 500), 40),
+                        ('camp:barracon', (90, 780, 430, 985), 18), ('camp:torre', (650, 590, 870, 985), 12), ('house:okupada', (1100, 700, 1420, 985), 28)]:
+        add(key, shrink(box_parts('14A.png', box), w, 40))
+if os.path.exists(os.path.join(SRC, '14B.png')):  # iconos para la ficha (no van al atlas): arte/papeles/*.png
+    dst = os.path.join(os.path.dirname(OUT_PNG), 'papeles'); os.makedirs(dst, exist_ok=True)
+    for name, box, w in [('dni', (70, 150, 460, 410), 40), ('pasaporte', (610, 95, 900, 470), 22), ('pasaporte_abierto', (1015, 135, 1495, 450), 44),
+                         ('permiso', (120, 560, 420, 985), 26), ('contrato', (540, 565, 970, 960), 32), ('sello', (1030, 600, 1500, 930), 38)]:
+        shrink(box_parts('14B.png', box), w, 32).save(os.path.join(dst, name + '.png'), optimize=True)
+
 # ---- Atlas: en filas, con 1 píxel de separación ----
 keys = list(S); W = 512; x = y = rowh = 0; pos = {}
 for k in sorted(keys, key=lambda k: -S[k]['img'].height):
